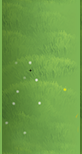
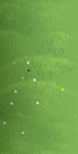
sync

diff --git a/js/level_manager.js b/js/level_manager.js
@@ -1,6 +1,9 @@
 game.LevelManager = me.Container.extend({
     init: function () {
 
+        // TODO:
+        // 
+
         this.enemySettings = {
             image: me.loader.getImage("truck_0")
         }
@@ -21,14 +24,13 @@
 
         var offset = 50;
         var minY = 350;
-        var maxY = 2000;
+        var maxY = 400;
         var randY = me.game.viewport.height / 2 - (this.getRandomInt(minY, maxY));
         var middlePosition = (me.game.viewport.width / 2 - this.enemySettings.image.width / 2);
 
         var obstacleCollisionType = me.collision.types.ENEMY_OBJECT;
         var obstacleCarsYVelocity = 200;
-
-        var canMove = false;
+        
         var leftLane = middlePosition - offset;
         var rightLane = middlePosition + offset;
         this.middleLane = middlePosition;
@@ -64,7 +66,7 @@
 
 
     createLevel: function (maxCars) {
-        me.game.world.addChild(this.player, this.entitiesLayer);     
+        this.addChild(this.player, this.entitiesLayer);
 
         for (var i = game.data.currentObstacles; i < maxCars; i++) {
             this.spawnObstacleCar();
@@ -72,12 +74,12 @@
 
         // Adding roads
         for (var i = -1; i < me.game.viewport.height / this.roadSettings.image.height + 2; i++) {
-            this.roads.push(me.game.world.addChild(me.pool.pull("road", this.middleX, i * this.roadSettings.image.height, this.roadSettings), this.roadLayer));
+            this.roads.push(this.addChild(me.pool.pull("road", this.middleX, i * this.roadSettings.image.height, this.roadSettings), this.roadLayer));
         }
 
         for (var j = 0; j < me.game.viewport.height / this.grassSettings.image.height; j++) {
             for (var i = 0; i < me.game.viewport.width / this.grassSettings.image.width; i++) {
-                this.grassBG.push(me.game.world.addChild(me.pool.pull("grass", i * this.grassSettings.image.width, j * this.grassSettings.image.height, this.grassSettings), this.bgLayer));
+                this.grassBG.push(this.addChild(me.pool.pull("grass", i * this.grassSettings.image.width, j * this.grassSettings.image.height, this.grassSettings), this.bgLayer));
             }
         }
 
@@ -98,8 +100,7 @@
         return Math.floor(Math.random() * (max - min)) + min; //The maximum is exclusive and the minimum is inclusive
     },
     spawnObstacleCar: function () {
-        this.obstacles.push(me.game.world.addChild(me.pool.pull("enemy", 0, this.player.pos.y - 450, this.enemySettings), this.entitiesLayer));
-        console.log('players y', this.player.pos.y);
+        this.obstacles.push(this.addChild(me.pool.pull("enemy", 0, this.player.pos.y, this.enemySettings), this.entitiesLayer));
         game.data.currentObstacles++;
     }
 });

diff --git a/js/entities/HUD.js b/js/entities/HUD.js
@@ -20,7 +20,7 @@ game.HUD.Container = me.Container.extend({
         // give a name
         this.name = "HUD";
 
-        this.addChild(new game.HUD.ScoreItem(-10, -10));
+        this.addChild(new game.HUD.StartingText(-100, -200));
     }
 });
 
@@ -28,7 +28,7 @@ game.HUD.Container = me.Container.extend({
 /**
  * a basic HUD item to display score
  */
-game.HUD.ScoreItem = me.Renderable.extend({
+game.HUD.StartingText = me.Renderable.extend({
     /**
      * constructor
      */
@@ -37,6 +37,7 @@ game.HUD.ScoreItem = me.Renderable.extend({
         // call the parent constructor
         // (size does not matter here)
         this._super(me.Renderable, 'init', [x, y, 10, 10]);
+        this.startingText = 'Press SPACE to play';
 
         // create the font object
         this.font = new me.BitmapFont(me.loader.getBinary('PressStart2P'), me.loader.getImage('PressStart2P'));
@@ -46,16 +47,20 @@ game.HUD.ScoreItem = me.Renderable.extend({
         this.font.textBaseline = "bottom";
 
         // local copy of the global score
-        this.score = -1;
+        this.gameStarted = false;
     },
 
     /**
      * update function
      */
-    update : function () {
-        if (this.score !== game.data.score) {
-            this.score = game.data.score;
+    update: function () {
+        if (this.gameStarted !== game.data.gameStarted) {
+            this.gameStarted = game.data.gameStarted;
             return true;
+        }
+
+        if (this.gameStarted) {
+            this.alpha = 0;
         }
         return false;
     },
@@ -63,10 +68,10 @@ game.HUD.ScoreItem = me.Renderable.extend({
     /**
      * draw the score
      */
-    draw : function (context) {
+    draw : function (renderer) {
         // draw it baby !
         // this.pos.x, this.pos.y are the relative position from the screen right bottom
-        this.font.draw(this.renderer, game.data.score, me.game.viewport.width + this.pos.x, me.game.viewport.height + this.pos.y);
+        this.font.draw(renderer, this.startingText, me.game.viewport.width + this.pos.x, me.game.viewport.height + this.pos.y);
     }
 
 });

diff --git a/js/entities/enemy.js b/js/entities/enemy.js
@@ -1,24 +1,29 @@
 game.Enemy = me.Entity.extend({
     init: function (x, y, settings) {
+        var images = ["truck_0", "truck_1"]
+        var randomImage = images[this.getRandomInt(0, images.length)];
+
         var offset = 50;
         var minY = 350;
-        var maxY = 2000;
+        var maxY = 400;
         var randY = y - (this.getRandomInt(minY, maxY));
         var middlePosition = (me.game.viewport.width / 2 - settings.image.width / 2);
         this._super(me.Entity, "init", [
             x,
             randY,
             {
-                image: settings.image,
+                image: randomImage,
                 width: settings.image.width,
                 height: settings.image.height
             }
         ]);
 
-        this.body.collisionType = me.collision.types.ENEMY_OBJECT;
-        this.body.setVelocity(0, 200);
+        this.name = 'obstacle_car';
 
-        this.canMove = false;
+        this.body.collisionType = me.collision.types.ENEMY_OBJECT;
+        //this.body.setVelocity(0, 200);
+        this.body.gravity = 0;
+
         this.leftLane = middlePosition - offset;
         this.rightLane = middlePosition + offset;
         this.middleLane = middlePosition;
@@ -30,13 +35,7 @@
     update: function (time) {
         this._super(me.Entity, "update", [time]);
 
-        if (me.input.isKeyPressed("start")) {
-            if (!this.canMove) {
-                this.canMove = true;
-            }
-        }
-
-        if (this.canMove) {
+        if (game.data.gameStarted) {
             this.pos.y += this.speed * time / 1000;
         }
 
@@ -52,6 +51,12 @@
                 break;
         }
 
+        if (!this.inViewport) {
+            //game.data.currentObstacles--;
+            this.alive = false;
+        }
+
+        this.body.update(time);
         return true;
     },
     getRandomInt: function getRandomInt(min, max) {

diff --git a/js/player.js b/js/player.js
@@ -11,7 +11,7 @@
                 height: settings.image.height
             }
         ]);
-
+        this.name = 'player';
         this.body.collisionType = me.collision.types.PLAYER_OBJECT;
         this.body.setCollisionMask(me.collision.types.ENEMY_OBJECT);
 
@@ -19,7 +19,6 @@
         this.rightLane = middlePosition + offset;
         this.middleLane = x;
         this.currentLane = 1;
-        this.canMove = false;
 
         this.minLane = 0;
         this.maxLane = 2;
@@ -28,12 +27,12 @@
         this._super(me.Entity, "update", [time]);
 
         if (me.input.isKeyPressed("start")) {
-            if (!this.canMove) {
-                this.canMove = true;
+            if (!game.data.gameStarted) {
+                game.data.gameStarted = true;
             }
         }
 
-        if (this.canMove) {
+        if (game.data.gameStarted) {
             if (me.input.isKeyPressed("left") && this.currentLane > this.minLane) {
                 this.currentLane -= 1;
             }
@@ -58,16 +57,19 @@
         this.pos.x = this.pos.x.clamp(this.leftPosition, this.rightPosition);
         
         me.collision.check(this);
-        
 
         return true;
     },
     onCollision: function (res, other) {
         if (other.body.collisionType === me.collision.types.ENEMY_OBJECT) {
-            console.log('collided');
+            console.log('Collided with', other);
+
+            var container = this.ancestor;
             var body = this.body;
+
             body.setCollisionMask();
-            me.game.world.removeChild(other);
+            container.removeChildNow(other);
+            console.log('container', container);
             game.data.currentObstacles--;
             this.renderable.flicker(2000, function () {
                 body.setCollisionMask(me.collision.types.ENEMY_OBJECT);

diff --git a/js/entities/grass.js b/js/entities/grass.js
@@ -1,24 +1,19 @@
 game.Grass = me.Sprite.extend({
     init: function (x, y, settings) {
+        var images = ["grass_0", "grass_1", "grass_2"] //, "grass_3", "grass_4", "grass_5", "grass_6", "grass_7"
+        var randomImage = images[this.getRandomInt(0, images.length)];
         this._super(me.Sprite, "init", [x, y,
             {
-                image: settings.image
+                image: randomImage
             }]);
 
-        this.canMove = false;
         this.speed = 300;
         this.alwaysUpdate = true;
     },
     update: function (time) {
         this._super(me.Sprite, "update", [time]);
 
-        if (me.input.isKeyPressed("start")) {
-            if (!this.canMove) {
-                this.canMove = true;
-            }
-        }
-
-        if (this.canMove) {
+        if (game.data.gameStarted) {
             this.pos.y += this.speed * time / 1000;
         }
 
@@ -27,5 +22,10 @@
         }
 
         return true;
+    },
+    getRandomInt: function getRandomInt(min, max) {
+        min = Math.ceil(min);
+        max = Math.floor(max);
+        return Math.floor(Math.random() * (max - min)) + min; //The maximum is exclusive and the minimum is inclusive
     }
 });

diff --git a/js/entities/road.js b/js/entities/road.js
@@ -5,26 +5,19 @@
             width: settings.image.width,
             height: settings.image.height
         }]);
-
-        this.canMove = false;
+        
         this.speed = 300;
         this.alwaysUpdate = true;
     },
     update: function (time) {
         this._super(me.Sprite, "update", [time]);
 
-        if (me.input.isKeyPressed("start")) {
-            if (!this.canMove) {
-                this.canMove = true;
-            }
-        }
-
-        if (this.canMove) {
+        if (game.data.gameStarted) {
             this.pos.y += this.speed * time / 1000;
         }
 
         if (this.pos.y >= me.game.viewport.height) {
-            this.pos.y -= 5 * 154;
+            this.pos.y -= 5 * this.image.height;
         }
 
         return true;

diff --git a/build/js/resources.js b/build/js/resources.js
@@ -50,8 +50,28 @@ game.resources = [
         "src": "data/img/road.png"
     },
     {
+        "name": "source_texture",
+        "type": "image",
+        "src": "data/img/source_texture.png"
+    },
+    {
         "name": "truck_0",
         "type": "image",
         "src": "data/img/truck_0.png"
+    },
+    {
+        "name": "truck_1",
+        "type": "image",
+        "src": "data/img/truck_1.png"
+    },
+    {
+        "name": "PressStart2P",
+        "type": "image",
+        "src": "data/fnt/PressStart2P.png"
+    },
+    {
+        "name": "PressStart2P",
+        "type": "binary",
+        "src": "data/fnt/PressStart2P.fnt"
     }
 ];

diff --git a/js/screens/play.js b/js/screens/play.js
@@ -10,6 +10,10 @@ game.PlayScreen = me.ScreenObject.extend({
         game.levelManager.createLevel(game.data.maxObstacles);
         me.game.world.addChild(game.levelManager);
 
+        // add our HUD to the game world
+        this.HUD = new game.HUD.Container();
+        me.game.world.addChild(this.HUD);
+
         me.input.bindKey(me.input.KEY.LEFT, "left", true);
         me.input.bindKey(me.input.KEY.RIGHT, "right", true);
         me.input.bindKey(me.input.KEY.A, "left", true);

diff --git a/Gruntfile.js b/Gruntfile.js
@@ -144,6 +144,12 @@ module.exports = function(grunt) {
         },{
           src: ['data/map/**/*.tsx'],
           type: 'tsx'
+        },{
+            src: ['data/fnt/**/*.png'],
+            type: 'image'
+        },{
+            src: ['data/fnt/**/*.fnt'],
+            type: 'binary'
         }]
       }
     },

diff --git a/js/game.js b/js/game.js
@@ -6,7 +6,8 @@ var game = {
         score: 0,
         life: 3,
         maxObstacles: 3,
-        currentObstacles: 0
+        currentObstacles: 0,
+        gameStarted: false
     },
 
     // Run on page load.
